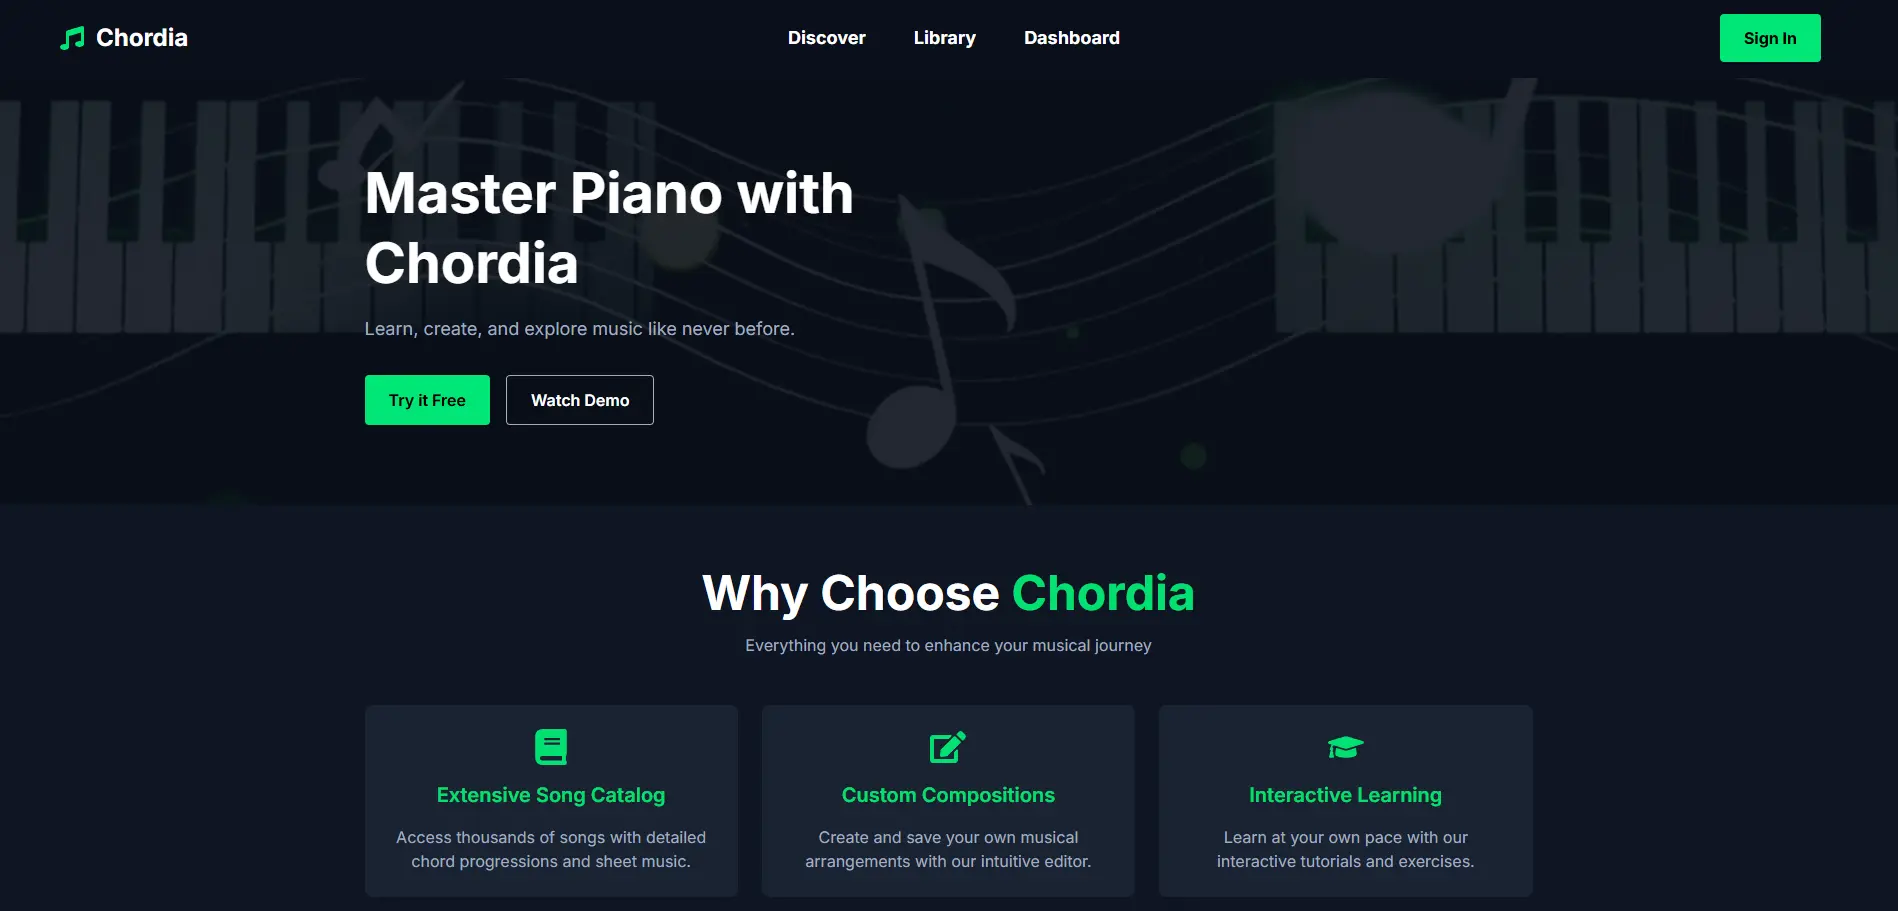
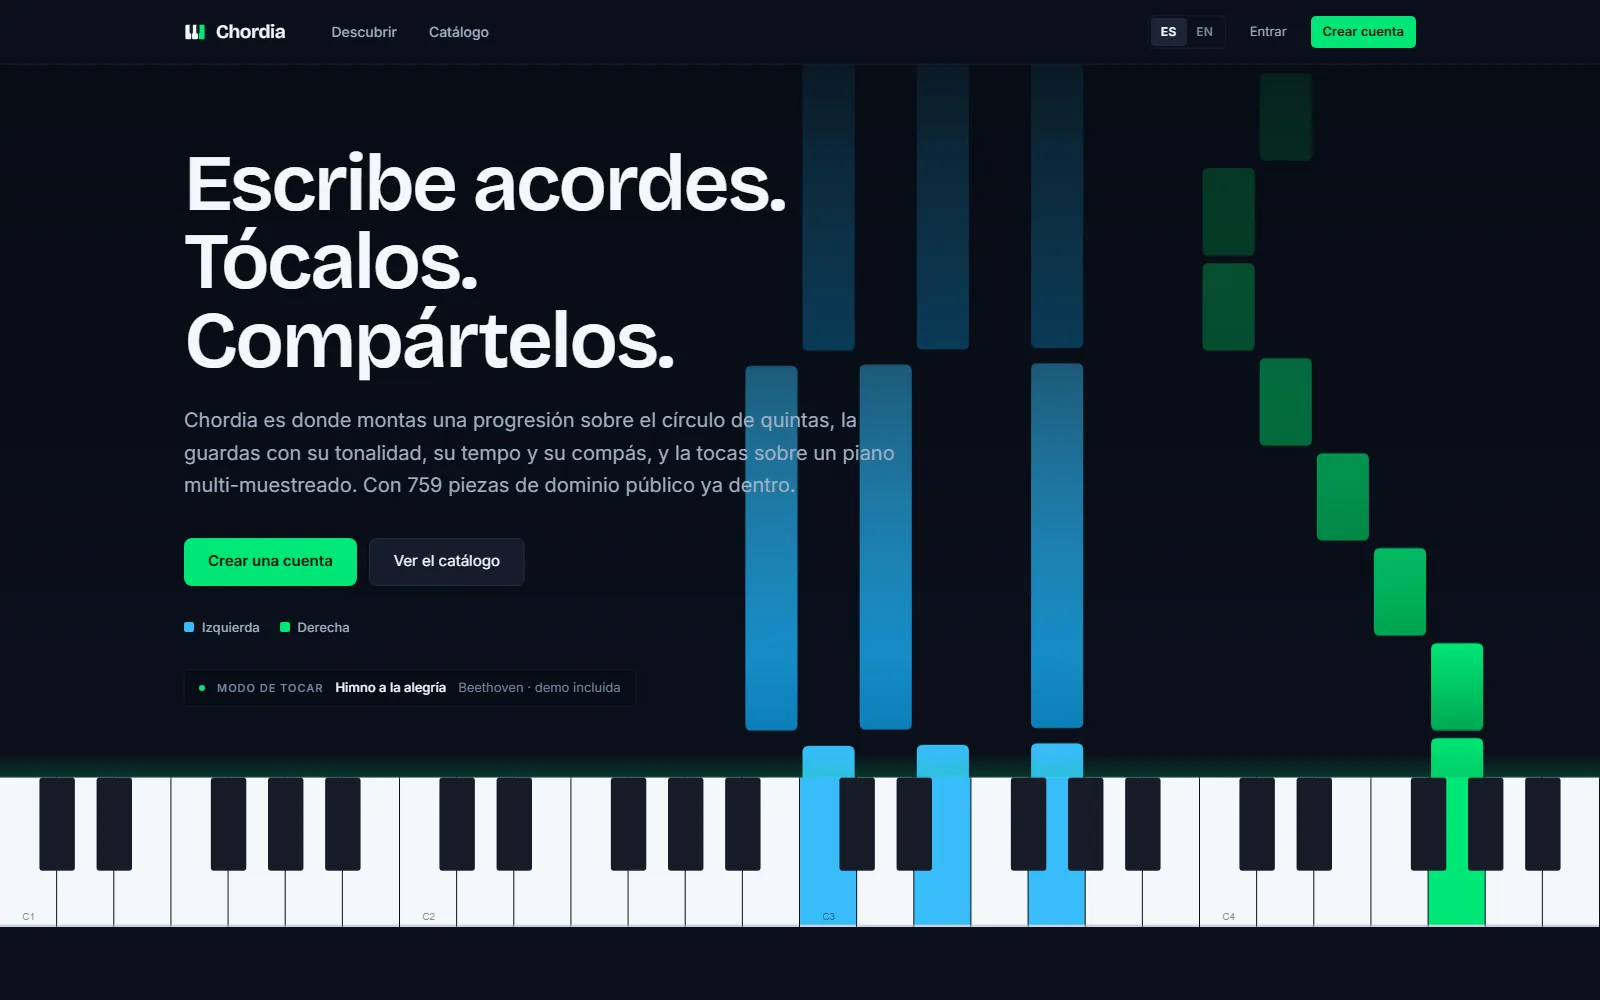
Deja Chordia y Quedi como proyectos principales y añade la sección de mini proyectos
Budgetly pasa a llamarse Quedi, Chordia actualiza descripción y capturas
nuevas. El resto de proyectos va en una lista compacta sin captura.

diff --git a/src/data/projects.ts b/src/data/projects.ts
@@ -1,4 +1,4 @@
-import type { Project } from '../types'
+import type { MiniProject, Project } from '../types'
 
 // Proyecto fullstack:
 //  id: 'project-1',
@@ -43,11 +43,11 @@ export const projects: Project[] = [
       es: 'Chordia',
     },
     description: {
-      en: 'Web application for beginner musicians that enables learning chords and progressions through interactive pianos.',
-      es: 'Aplicacion web para musicos principantes que permite el aprendizaje de acordes y progresiones a traves de pianos interactivos.',
+      en: 'Build chord progressions on the circle of fifths and play them on a multi-sampled piano. Includes 759 public-domain pieces with falling-notes practice mode and MIDI keyboard support.',
+      es: 'Monta progresiones de acordes sobre el círculo de quintas y tócalas en un piano multi-muestreado. Incluye 759 piezas de dominio público con modo práctica de notas que caen y soporte para teclados MIDI.',
     },
     image: '/chordia.webp',
-    tags: ['React', 'TypeScript', 'Firebase'],
+    tags: ['React', 'TypeScript', 'Firebase', 'Web Audio API'],
     category: 'fullstack',
     difficulty: 3.5,
     github: 'https://github.com/RubenMRDev/Chordia',
@@ -56,85 +56,75 @@ export const projects: Project[] = [
   {
     id: 'project-2',
     title: {
-      en: 'Only One Escapes',
-      es: 'Only One Escapes',
-    },
-    description: {
-      en: 'Simple wheel of doom web game with animations, story, and sound effects.',
-      es: 'Juego de rueda del destino interactivo con animaciones, historia y efectos de sonido.',
-    },
-    image: '/only-one-escapes.webp',
-    tags: ['HTML', 'Bootstrap', 'CSS', 'JavaScript', 'SweetAlert'],
-    category: 'frontend',
-    difficulty: 2,
-    github: 'https://github.com/RubenMRDev/OnlyOneEscapes',
-    demo: 'https://only-one-escapes-project.vercel.app/',
-  },
-  {
-    id: 'project-3',
-    title: {
-      en: 'My Hero Academia Wiki',
-      es: 'Wiki de My Hero Academia',
-    },
-    description: {
-      en: 'Interactive wiki for My Hero Academia characters and gallery',
-      es: 'Wiki interactiva para personajes y galeria de My Hero Academia.',
-    },
-    image: '/mha-wiki.webp',
-    tags: ['HTML', 'CSS', 'Bootstrap', 'Javascript', 'JSON'],
-    category: 'frontend',
-    difficulty: 1,
-    github: 'https://github.com/RubenMRDev/MHAWiki',
-    demo: 'https://mha-wiki.vercel.app/',
-  },
-  {
-    id: 'project-4',
-    title: {
-      en: 'Pokédex Field Guide',
-      es: 'Pokédex Field Guide',
-    },
-    description: {
-      en: 'Illustrated Pokédex built as the red scanning device itself, powered by PokéAPI: type-defense charts, shiny toggle, cries, evolutions and alternate forms.',
-      es: 'Pokédex ilustrada construida como el propio dispositivo rojo, sobre PokéAPI: gráficos de defensa por tipo, modo shiny, gritos, evoluciones y formas alternativas.',
-    },
-    image: '/pokedex.webp',
-    tags: ['React', 'Vite', 'PokéAPI', 'CSS'],
-    category: 'frontend',
-    difficulty: 3,
-    github: 'https://github.com/RubenMRDev/pokedex-field-guide',
-    demo: 'https://pokedex-field-guide.vercel.app',
-  },
-  {
-    id: 'project-5',
-    title: {
-      en: 'VALORANT Vault',
-      es: 'VALORANT Vault',
-    },
-    description: {
-      en: 'Interactive explorer for the VALORANT API: agents, weapons, 1,300+ skins with video previews, maps, ranks and cosmetics, with command-palette search in 18 languages.',
-      es: 'Explorador interactivo de la API de VALORANT: agentes, armas, más de 1.300 skins con vídeos, mapas, rangos y cosméticos, con búsqueda por paleta de comandos en 18 idiomas.',
-    },
-    image: '/valorant-vault.webp',
-    tags: ['React', 'Vite', 'React Router', 'CSS Modules'],
-    category: 'frontend',
-    difficulty: 3,
-    github: 'https://github.com/RubenMRDev/ValorantVault',
-    demo: 'https://valorant-vault-iota.vercel.app',
-  },
-  {
-    id: 'project-6',
-    title: {
-      en: 'Budgetly',
-      es: 'Budgetly',
+      en: 'Quedi',
+      es: 'Quedi',
     },
     description: {
       en: "Local-first personal budgeting SPA: plan monthly income across categories, track expenses, manage a prioritized wishlist and run 'can I afford this?' simulations, all client-side.",
       es: "SPA de presupuesto personal local-first: reparte tu ingreso mensual por categorías, registra gastos, gestiona una lista de deseos por prioridad y simula '¿puedo permitírmelo?', todo en el cliente.",
     },
-    image: '/budgetly.webp',
+    image: '/quedi.webp',
     tags: ['React', 'TypeScript', 'Tailwind', 'Vite'],
     category: 'fullstack',
     difficulty: 3.5,
     demo: 'https://budgetlyweb.vercel.app',
   }
+]
+
+export const miniProjects: MiniProject[] = [
+  {
+    id: 'valorant-vault',
+    title: 'VALORANT Vault',
+    description: {
+      en: 'Explorer for the VALORANT API: agents, weapons, 1,300+ skins with video, maps and ranks, in 18 languages.',
+      es: 'Explorador de la API de VALORANT: agentes, armas, más de 1.300 skins con vídeo, mapas y rangos, en 18 idiomas.',
+    },
+    tags: ['React', 'Vite', 'React Router'],
+    github: 'https://github.com/RubenMRDev/ValorantVault',
+    demo: 'https://valorant-vault-iota.vercel.app',
+  },
+  {
+    id: 'pokedex',
+    title: 'Pokédex Field Guide',
+    description: {
+      en: 'Illustrated Pokédex shaped like the device itself, over PokéAPI: type charts, shiny, cries and evolutions.',
+      es: 'Pokédex ilustrada con forma del propio dispositivo, sobre PokéAPI: tabla de tipos, shiny, gritos y evoluciones.',
+    },
+    tags: ['React', 'Vite', 'PokéAPI'],
+    github: 'https://github.com/RubenMRDev/pokedex-field-guide',
+    demo: 'https://pokedex-field-guide.vercel.app',
+  },
+  {
+    id: 'terraclicker',
+    title: 'TerraClicker',
+    description: {
+      en: 'Idle clicker with the progression, materials, bosses and events of Terraria.',
+      es: 'Clicker incremental con la progresión, los materiales, los jefes y los eventos de Terraria.',
+    },
+    tags: ['React', 'TypeScript'],
+    github: 'https://github.com/RubenMRDev/terraclicker',
+    demo: 'https://terraclicker-eta.vercel.app',
+  },
+  {
+    id: 'mha-wiki',
+    title: 'My Hero Academia Wiki',
+    description: {
+      en: 'Character cards and gallery loaded from JSON.',
+      es: 'Fichas de personajes y galería cargadas desde JSON.',
+    },
+    tags: ['HTML', 'Bootstrap', 'JavaScript'],
+    github: 'https://github.com/RubenMRDev/MHAWiki',
+    demo: 'https://mha-wiki.vercel.app/',
+  },
+  {
+    id: 'only-one-escapes',
+    title: 'Only One Escapes',
+    description: {
+      en: 'Wheel-of-doom browser game with story, animations and sound.',
+      es: 'Juego de ruleta del destino con historia, animaciones y sonido.',
+    },
+    tags: ['JavaScript', 'Bootstrap', 'SweetAlert'],
+    github: 'https://github.com/RubenMRDev/OnlyOneEscapes',
+    demo: 'https://only-one-escapes-project.vercel.app/',
+  },
 ]

diff --git a/src/components/sections/Projects.tsx b/src/components/sections/Projects.tsx
@@ -1,7 +1,7 @@
 import { useEffect, useRef, useState } from 'react'
 import { motion, useScroll, useSpring, useTransform } from 'motion/react'
 import { useLanguage } from '../../context/LanguageContext'
-import { projects } from '../../data/projects'
+import { miniProjects, projects } from '../../data/projects'
 import { useMediaQuery } from '../../lib/media'
 import SectionHeading from '../ui/SectionHeading'
 
@@ -190,6 +190,56 @@ export default function Projects() {
             </div>
           )}
         </div>
+      </div>
+
+      <div className="px-6 pb-24 md:px-10 md:pb-32">
+        <SectionHeading eyebrow={t.projects.miniEyebrow} title={t.projects.miniTitle} onDeep />
+
+        <ul className="mt-10 border-t border-deep-line">
+          {miniProjects.map((mini, i) => (
+            <motion.li
+              key={mini.id}
+              initial={{ opacity: 0, y: 16 }}
+              whileInView={{ opacity: 1, y: 0 }}
+              viewport={{ once: true, margin: '0px 0px -10% 0px' }}
+              transition={{ duration: 0.6, delay: i * 0.05, ease: EASE }}
+              className="grid gap-x-8 gap-y-2 border-b border-deep-line py-6 md:grid-cols-[3rem_minmax(12rem,1fr)_2fr_auto] md:items-baseline"
+            >
+              <span className="nums font-mono text-micro text-deep-ink-2/70">
+                {String(i + 1).padStart(2, '0')}
+              </span>
+              <h3 className="font-semibold text-deep-ink">{mini.title}</h3>
+              <div>
+                <p className="text-small text-deep-ink-2">{mini.description[lang]}</p>
+                <p className="mt-1.5 font-mono text-[0.68rem] text-deep-ink-2/70">
+                  {mini.tags.join(' · ')}
+                </p>
+              </div>
+              <div className="flex gap-x-5">
+                {mini.demo && (
+                  <a
+                    href={mini.demo}
+                    target="_blank"
+                    rel="noopener noreferrer"
+                    className="text-small font-medium text-deep-ink transition-colors hover:text-accent-soft"
+                  >
+                    {t.projects.viewDemo} <span aria-hidden="true">↗</span>
+                  </a>
+                )}
+                {mini.github && (
+                  <a
+                    href={mini.github}
+                    target="_blank"
+                    rel="noopener noreferrer"
+                    className="text-small text-deep-ink-2 transition-colors hover:text-deep-ink"
+                  >
+                    {t.projects.viewCode}
+                  </a>
+                )}
+              </div>
+            </motion.li>
+          ))}
+        </ul>
       </div>
     </section>
   )

diff --git a/src/components/sections/About.tsx b/src/components/sections/About.tsx
@@ -1,6 +1,6 @@
 import { motion } from 'motion/react'
 import { useLanguage } from '../../context/LanguageContext'
-import { projects } from '../../data/projects'
+import { miniProjects, projects } from '../../data/projects'
 import { skills } from '../../data/skills'
 import SectionHeading from '../ui/SectionHeading'
 import Reveal from '../ui/Reveal'
@@ -14,7 +14,7 @@ export default function About() {
 
   const stats = [
     { to: 1, suffix: '+', label: t.about.yearsExp },
-    { to: projects.length, suffix: '', label: t.about.projectsCompleted },
+    { to: projects.length + miniProjects.length, suffix: '', label: t.about.projectsCompleted },
     { to: skills.length, suffix: '', label: t.about.techStack },
   ]
 

diff --git a/src/types/index.ts b/src/types/index.ts
@@ -42,6 +42,8 @@ export interface Translations {
     viewCode: string
     viewDemo: string
     open: string
+    miniEyebrow: string
+    miniTitle: string
   }
   experience: {
     eyebrow: string
@@ -68,6 +70,15 @@ export interface Project {
   tags: string[]
   category: 'frontend' | 'fullstack' | 'other'
   difficulty: number
+  github?: string
+  demo?: string
+}
+
+export interface MiniProject {
+  id: string
+  title: string
+  description: { en: string; es: string }
+  tags: string[]
   github?: string
   demo?: string
 }

diff --git a/src/i18n/es.ts b/src/i18n/es.ts
@@ -44,6 +44,8 @@ export const es: Translations = {
     viewCode: 'Código',
     viewDemo: 'Ver demo',
     open: 'Abrir',
+    miniEyebrow: 'Mini proyectos',
+    miniTitle: 'Experimentos y proyectos de fin de semana.',
   },
   experience: {
     eyebrow: 'Experiencia',

diff --git a/src/i18n/en.ts b/src/i18n/en.ts
@@ -44,6 +44,8 @@ export const en: Translations = {
     viewCode: 'Source',
     viewDemo: 'Live demo',
     open: 'Open',
+    miniEyebrow: 'Side projects',
+    miniTitle: 'Experiments and weekend builds.',
   },
   experience: {
     eyebrow: 'Experience',
